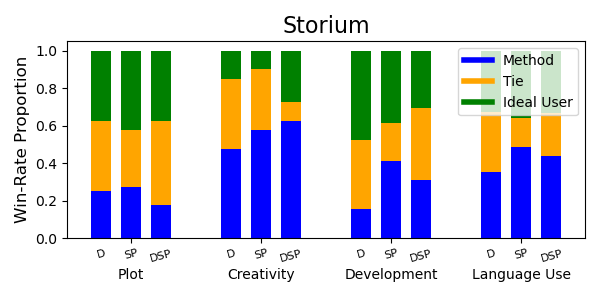
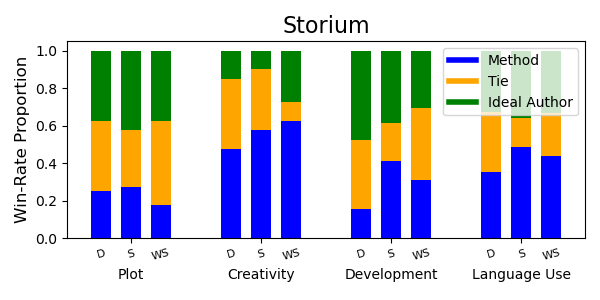
change labels

diff --git a/evaluation/consolidate_results.py b/evaluation/consolidate_results.py
@@ -101,7 +101,7 @@ def create_graph(method_source_wise_results, output_dir):
     # Specify methods to compare
     methods_to_compare = ['delta', 'schema_persona', 'delta_schema_persona']
     # define method alias
-    method_alias = {'delta_schema_persona': 'DSP', 'schema_persona': 'SP', 'delta': 'D'}
+    method_alias = {'delta_schema_persona': 'WS', 'schema_persona': 'S', 'delta': 'D'}
     # source alias
     source_alias = {'Reddit.json': 'Reddit', 'AO3.json': 'AO3', 'Storium.json': 'Storium', 'narrativemagazine.json': 'Narrative Magazine', 'newyorker.json': 'New Yorker'}
 
@@ -172,7 +172,7 @@ def create_graph(method_source_wise_results, output_dir):
         handles = [
             plt.Line2D([0], [0], color=common_colors['expts'], lw=4, label='Method'),
             plt.Line2D([0], [0], color=common_colors['Tie'], lw=4, label='Tie'),
-            plt.Line2D([0], [0], color=common_colors['vanilla'], lw=4, label='Ideal User')
+            plt.Line2D([0], [0], color=common_colors['vanilla'], lw=4, label='Ideal Author')
         ]
         ax.legend(handles=handles, fontsize=10, loc='upper right')
 
